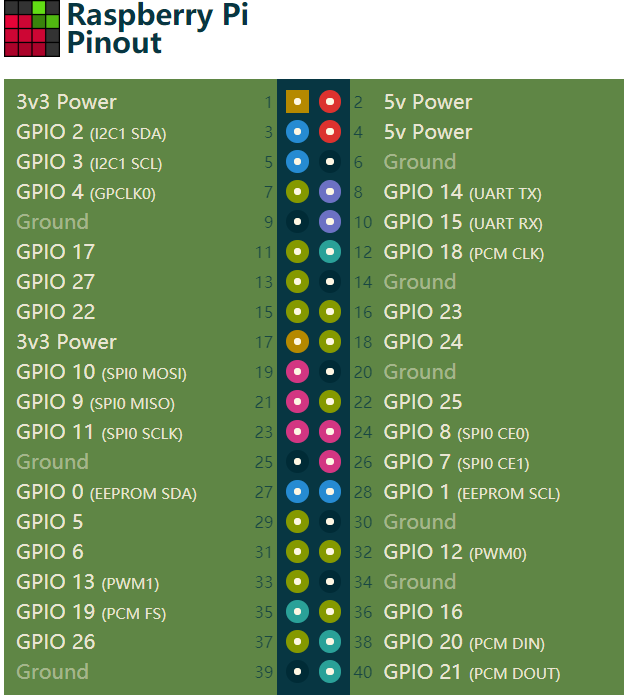
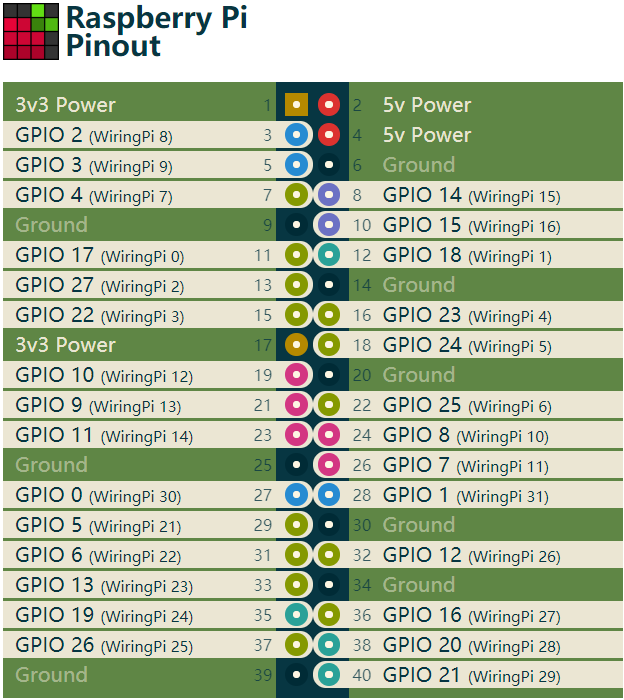
renew readme

diff --git a/README.md b/README.md
@@ -3,5 +3,16 @@ raspberry相关开发
 ## 目录
 1. fanAccordCPU 根据温度激活树莓派的风扇，需要使用GPIO引脚进行供电，如果直插，考虑使用电压3V3的风扇
 2. LED 01Studio PiHAT 灯组测试
+***
+## 注意
+1. 引脚有三种编码方式：
+    > - BCM编码——GPIO2
+    > - WiringPi编码——WiringPi8
+    > - Board编码——3或者P1_3
+    > - 注意程序库使用的哪一种，需要一一对应。一般使用BCM编码即可。
+2. 第二需要注意的是GPIO操作**需要root权限**，否则有可能在不抛出错误情况下照常运行。
+***
 ## 参考
-[GPIO引脚定义](https://pinout.xyz/)
++ [GPIO引脚定义](https://pinout.xyz/)
++ ![RUNOOB 图标](PinOut.png)
+
